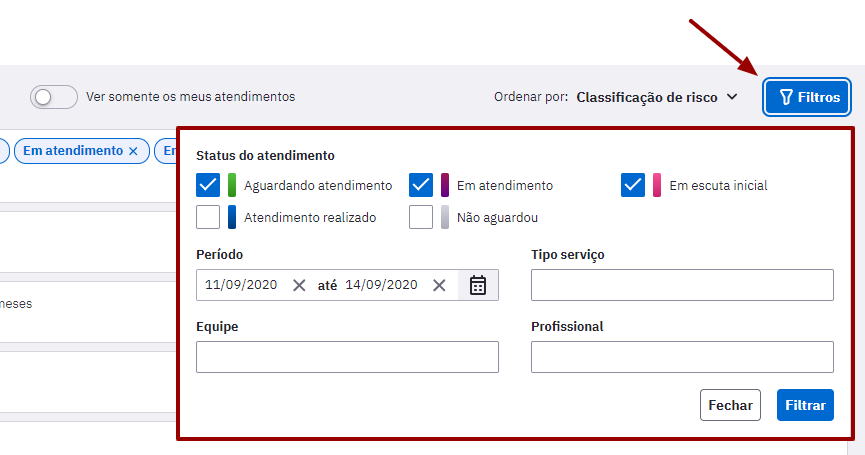
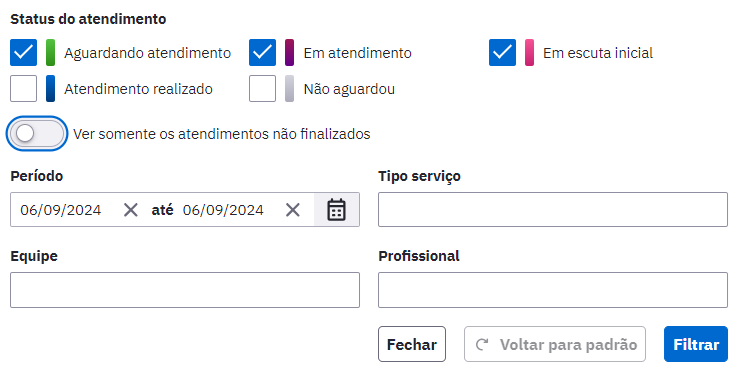
lista de atendimentos
inclusão atendimentos finalizados

diff --git a/docs/PEC/PEC_06_atendimentos.md b/docs/PEC/PEC_06_atendimentos.md
@@ -63,6 +63,8 @@ Em seguida, veremos a função de cada campo:
 
 - **status atendimento:** filtra a lista pela situação do cidadão em relação ao fluxo de atendimento;
 
+É possível selecionar para ver somente os atendimentos não finalizados ou todos os atendimentos. 
+
 ![](media/pec_image311.png)
 
 - **período:** filtra e pesquisa os atendimentos em espaço de tempo definido;
